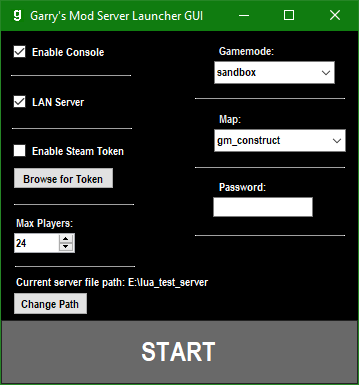
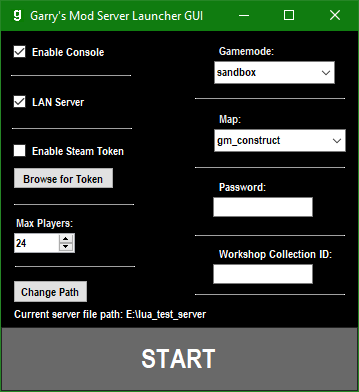
Added workshop collection option

diff --git a/MainForm.Designer.cs b/MainForm.Designer.cs
@@ -43,6 +43,9 @@
 			this.label9 = new System.Windows.Forms.Label();
 			this.label10 = new System.Windows.Forms.Label();
 			this.label11 = new System.Windows.Forms.Label();
+			this.CollectionIDBox = new System.Windows.Forms.TextBox();
+			this.label12 = new System.Windows.Forms.Label();
+			this.label13 = new System.Windows.Forms.Label();
 			((System.ComponentModel.ISupportInitialize)(this.maxplayers)).BeginInit();
 			this.SuspendLayout();
 			// 
@@ -62,14 +65,15 @@
 			// 
 			// mapselect
 			// 
+			this.mapselect.AllowDrop = true;
 			this.mapselect.Enabled = false;
 			this.mapselect.Font = new System.Drawing.Font("Arial Narrow", 8.25F, System.Drawing.FontStyle.Bold, System.Drawing.GraphicsUnit.Point, ((byte)(0)));
-			this.mapselect.FormattingEnabled = true;
 			this.mapselect.Location = new System.Drawing.Point(213, 98);
 			this.mapselect.Name = "mapselect";
 			this.mapselect.Size = new System.Drawing.Size(132, 23);
 			this.mapselect.TabIndex = 2;
 			this.mapselect.SelectedIndexChanged += new System.EventHandler(this.MapChanged);
+			this.mapselect.TextChanged += new System.EventHandler(this.MapChanged);
 			// 
 			// label1
 			// 
@@ -89,7 +93,7 @@
 			this.button1.FlatStyle = System.Windows.Forms.FlatStyle.Popup;
 			this.button1.Font = new System.Drawing.Font("Arial Narrow", 20.25F, System.Drawing.FontStyle.Bold, System.Drawing.GraphicsUnit.Point, ((byte)(0)));
 			this.button1.ForeColor = System.Drawing.Color.White;
-			this.button1.Location = new System.Drawing.Point(0, 289);
+			this.button1.Location = new System.Drawing.Point(0, 296);
 			this.button1.Name = "button1";
 			this.button1.Size = new System.Drawing.Size(357, 64);
 			this.button1.TabIndex = 4;
@@ -146,12 +150,13 @@
 			// 
 			// gameselect
 			// 
-			this.gameselect.FormattingEnabled = true;
+			this.gameselect.AllowDrop = true;
 			this.gameselect.Location = new System.Drawing.Point(213, 30);
 			this.gameselect.Name = "gameselect";
 			this.gameselect.Size = new System.Drawing.Size(121, 23);
 			this.gameselect.TabIndex = 8;
 			this.gameselect.SelectedIndexChanged += new System.EventHandler(this.GamemodeChanged);
+			this.gameselect.TextChanged += new System.EventHandler(this.GamemodeChanged);
 			// 
 			// label3
 			// 
@@ -168,7 +173,7 @@
 			// 
 			this.label4.AutoSize = true;
 			this.label4.ForeColor = System.Drawing.Color.White;
-			this.label4.Location = new System.Drawing.Point(12, 243);
+			this.label4.Location = new System.Drawing.Point(10, 275);
 			this.label4.Name = "label4";
 			this.label4.Size = new System.Drawing.Size(119, 15);
 			this.label4.TabIndex = 10;
@@ -176,7 +181,7 @@
 			// 
 			// button2
 			// 
-			this.button2.Location = new System.Drawing.Point(12, 261);
+			this.button2.Location = new System.Drawing.Point(12, 249);
 			this.button2.Name = "button2";
 			this.button2.Size = new System.Drawing.Size(75, 23);
 			this.button2.TabIndex = 11;
@@ -281,12 +286,41 @@
 			this.label11.Size = new System.Drawing.Size(150, 1);
 			this.label11.TabIndex = 22;
 			// 
+			// CollectionIDBox
+			// 
+			this.CollectionIDBox.Location = new System.Drawing.Point(212, 233);
+			this.CollectionIDBox.Name = "CollectionIDBox";
+			this.CollectionIDBox.Size = new System.Drawing.Size(100, 20);
+			this.CollectionIDBox.TabIndex = 24;
+			this.CollectionIDBox.TextChanged += new System.EventHandler(this.CollectionIDBoxChanged);
+			// 
+			// label12
+			// 
+			this.label12.AutoSize = true;
+			this.label12.ForeColor = System.Drawing.Color.White;
+			this.label12.Location = new System.Drawing.Point(215, 215);
+			this.label12.Name = "label12";
+			this.label12.Size = new System.Drawing.Size(120, 15);
+			this.label12.TabIndex = 23;
+			this.label12.Text = "Workshop Collection ID:";
+			// 
+			// label13
+			// 
+			this.label13.BorderStyle = System.Windows.Forms.BorderStyle.Fixed3D;
+			this.label13.Location = new System.Drawing.Point(194, 263);
+			this.label13.Name = "label13";
+			this.label13.Size = new System.Drawing.Size(150, 1);
+			this.label13.TabIndex = 25;
+			// 
 			// MainForm
 			// 
 			this.AutoScaleDimensions = new System.Drawing.SizeF(6F, 15F);
 			this.AutoScaleMode = System.Windows.Forms.AutoScaleMode.Font;
 			this.BackColor = System.Drawing.Color.Black;
-			this.ClientSize = new System.Drawing.Size(357, 353);
+			this.ClientSize = new System.Drawing.Size(357, 360);
+			this.Controls.Add(this.label13);
+			this.Controls.Add(this.CollectionIDBox);
+			this.Controls.Add(this.label12);
 			this.Controls.Add(this.label11);
 			this.Controls.Add(this.label10);
 			this.Controls.Add(this.label9);
@@ -344,6 +378,9 @@
 		private System.Windows.Forms.Label label9;
 		private System.Windows.Forms.Label label10;
 		private System.Windows.Forms.Label label11;
+		private System.Windows.Forms.TextBox CollectionIDBox;
+		private System.Windows.Forms.Label label12;
+		private System.Windows.Forms.Label label13;
 	}
 }
 

diff --git a/MainForm.cs b/MainForm.cs
@@ -12,6 +12,7 @@ namespace GMod_Server_Launcher_Console
 		public string LANEnabled = "";
 		public string Password = "";
 		public string SteamToken = "";
+		public string CollectionID = "";
 
 		public MainForm()
 		{
@@ -29,12 +30,14 @@ namespace GMod_Server_Launcher_Console
 			mapselect.SelectedItem = Settings.Map;
 			passwordBox.Text = Settings.Password;
 			TokenEnable.Checked = Settings.TokenEnabled;
+			CollectionIDBox.Text = Settings.CollectionID;
 
 			mapselect.Enabled = consolecheck.Checked;
 			lancheck.Enabled = consolecheck.Checked;
 			maxplayers.Enabled = consolecheck.Checked;
 			gameselect.Enabled = consolecheck.Checked;
 			passwordBox.Enabled = consolecheck.Checked;
+			CollectionIDBox.Enabled = consolecheck.Checked;
 
 			StringBuilder path = new StringBuilder( label4.Text );
 			path.Append( Properties.Settings.Default.FilePath );
@@ -90,6 +93,8 @@ namespace GMod_Server_Launcher_Console
 			lancheck.Enabled = consolecheck.Checked;
 			maxplayers.Enabled = consolecheck.Checked;
 			gameselect.Enabled = consolecheck.Checked;
+			passwordBox.Enabled = consolecheck.Checked;
+			CollectionIDBox.Enabled = consolecheck.Checked;
 			Properties.Settings.Default.Console = consolecheck.Checked;
 		}
 
@@ -100,12 +105,12 @@ namespace GMod_Server_Launcher_Console
 
 		private void MapChanged( object sender, EventArgs e )
 		{
-			Properties.Settings.Default.Map = mapselect.SelectedItem.ToString();
+			Properties.Settings.Default.Map = mapselect.Text;
 		}
 
 		private void GamemodeChanged( object sender, EventArgs e )
 		{
-			Properties.Settings.Default.Gamemode = gameselect.SelectedItem.ToString();
+			Properties.Settings.Default.Gamemode = gameselect.Text;
 		}
 
 		private void ChangePathClick( object sender, EventArgs e )
@@ -174,7 +179,7 @@ namespace GMod_Server_Launcher_Console
 				UseShellExecute = true,
 				WorkingDirectory = Properties.Settings.Default.FilePath,
 				FileName = Properties.Settings.Default.FilePath + @"\srcds.exe",
-				Arguments = "+gamemode " + gameselect.Text.ToString() + ConsoleEnabled + LANEnabled + "+map " + mapselect.Text.ToString() + " +maxplayers " + maxplayers.Value + " +r_hunkalloclightmaps 0" + Password + SteamToken,
+				Arguments = "+gamemode " + gameselect.Text.ToString() + ConsoleEnabled + LANEnabled + "+map " + mapselect.Text.ToString() + " +maxplayers " + maxplayers.Value + " +r_hunkalloclightmaps 0" + Password + SteamToken + CollectionID,
 			};
 
 			try
@@ -187,6 +192,17 @@ namespace GMod_Server_Launcher_Console
 				DialogResult launcherror = MessageBox.Show( "Failed to launch. Invalid file path.", "Launch Error", MessageBoxButtons.OK, MessageBoxIcon.Error );
 				if ( launcherror == DialogResult.OK ) Close();
 			}
+		}
+
+		private void CollectionIDBoxChanged( object sender, EventArgs e )
+		{
+			Properties.Settings.Default.CollectionID = CollectionIDBox.Text;
+			if ( string.IsNullOrWhiteSpace( CollectionIDBox.Text ) )
+			{
+				CollectionID = "";
+				return;
+			}
+			CollectionID = " +host_workshop_collection " + CollectionIDBox.Text;
 		}
 	}
 }

diff --git a/Properties/Settings.Designer.cs b/Properties/Settings.Designer.cs
@@ -12,7 +12,7 @@ namespace GMod_Server_Launcher_Console.Properties {
     
     
     [global::System.Runtime.CompilerServices.CompilerGeneratedAttribute()]
-    [global::System.CodeDom.Compiler.GeneratedCodeAttribute("Microsoft.VisualStudio.Editors.SettingsDesigner.SettingsSingleFileGenerator", "16.5.0.0")]
+    [global::System.CodeDom.Compiler.GeneratedCodeAttribute("Microsoft.VisualStudio.Editors.SettingsDesigner.SettingsSingleFileGenerator", "16.10.0.0")]
     public sealed partial class Settings : global::System.Configuration.ApplicationSettingsBase {
         
         private static Settings defaultInstance = ((Settings)(global::System.Configuration.ApplicationSettingsBase.Synchronized(new Settings())));
@@ -128,6 +128,18 @@ namespace GMod_Server_Launcher_Console.Properties {
             }
             set {
                 this["TokenPath"] = value;
+            }
+        }
+        
+        [global::System.Configuration.UserScopedSettingAttribute()]
+        [global::System.Diagnostics.DebuggerNonUserCodeAttribute()]
+        [global::System.Configuration.DefaultSettingValueAttribute("")]
+        public string CollectionID {
+            get {
+                return ((string)(this["CollectionID"]));
+            }
+            set {
+                this["CollectionID"] = value;
             }
         }
     }

diff --git a/Properties/AssemblyInfo.cs b/Properties/AssemblyInfo.cs
@@ -10,7 +10,7 @@ using System.Runtime.InteropServices;
 [assembly: AssemblyConfiguration( "" )]
 [assembly: AssemblyCompany( "" )]
 [assembly: AssemblyProduct( "CityRP-Server-Launcher-UI" )]
-[assembly: AssemblyCopyright( "Copyright ©  2020" )]
+[assembly: AssemblyCopyright( "Copyright © LambdaGaming 2021" )]
 [assembly: AssemblyTrademark( "" )]
 [assembly: AssemblyCulture( "" )]
 
@@ -32,5 +32,5 @@ using System.Runtime.InteropServices;
 // You can specify all the values or you can default the Build and Revision Numbers
 // by using the '*' as shown below:
 // [assembly: AssemblyVersion("1.0.*")]
-[assembly: AssemblyVersion( "1.0.0.0" )]
-[assembly: AssemblyFileVersion( "1.0.0.0" )]
+[assembly: AssemblyVersion( "1.3" )]
+[assembly: AssemblyFileVersion( "1.3" )]

diff --git a/README.md b/README.md
@@ -1,26 +1,22 @@
 # Garry's Mod Server Launcher GUI With Console Support
- This is meant to act as a replacement launcher for hosts who want to use the full console while also wanting to choose the map the server starts on, since the normal server GUI doesn't include that feature.
+ This is a replacement launcher for hosts who want to use the server's console mode while also wanting the full options that the normal GUI provides.
 
 ![](https://raw.githubusercontent.com/LambdaGaming/GMod-Server-Launcher-Console/master/reference.PNG)
 
 ## Features:
-<ul>
-    <li>Prompts the user to select the file path that contains the server exe if the path is not found.</li>
-    <li>Console mode toggle. Disables all other options if disabled since the main server GUI will take over at that point and ignore all launch arguments.</li>
-    <li>Map selection that gets the names of maps inside the garrymod/maps server folder.</li>
-	<li>Support for the new Steam server tokens requirement so the server isn't stuck at the bottom of the server browser.</li>
-    <li>Gamemode selection that gets the names of gamemodes inside the garrysmod/gamemodes server folder.</li>
-    <li>LAN mode toggle.</li>
-    <li>Max players selection.</li>
-    <li>Password option.</li>
-    <li>All settings mentioned above are saved when the app closes and will be automatically set when the app is reopened.</li>
-</ul>
+- Prompts the user to select the file path that contains the server exe if the path is not found.
+- Console mode toggle. Disables all other options if disabled since the main server GUI will take over at that point and ignore all launch arguments.
+- Map selection that gets the names of maps inside the garrymod/maps server folder. The map name can also be manually entered into the text box if the map is in a different location.
+- Support for the new Steam server tokens requirement so the server isn't stuck at the bottom of the server browser.
+- Gamemode selection that gets the names of gamemodes inside the garrysmod/gamemodes server folder.
+- LAN mode toggle.
+- Max players selection.
+- Password option.
+- Steam workshop collection option.
+- All settings mentioned above are saved when the program closes and will be automatically set when the program is reopened.
 
 ## Working with more than one server:
- If you need this program to run more than one server, you can copy the exe and rename it to something else to generate a new config, allowing you to basically have an unlimited number of configs for the same program.
-
-## Extra Builds:
- I have a separate repository for the launchers that I personally use. These are not very customizable and the the configs are all hard-coded, but feel free to use them if you'd like. [Click here to go to the repository.](https://github.com/LambdaGaming/GMod-Server-Launcher-Console-Extra)
+ If you need this program to run more than one server, you can copy the exe and rename it to something else to generate a new config.
 
 # Issues & Pull Requests
  If you would like to contribute to this repository by creating an issue or pull request, please refer to the [contributing guidelines.](https://lambdagaming.github.io/contributing.html)
